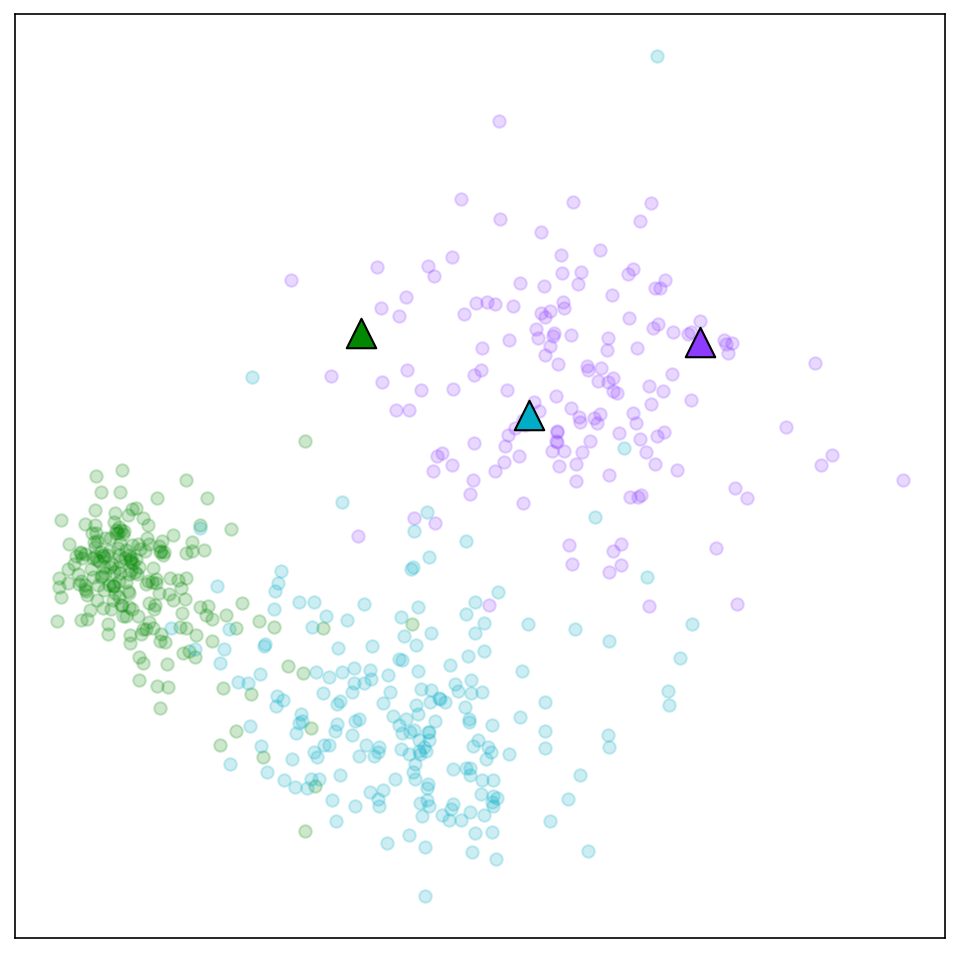
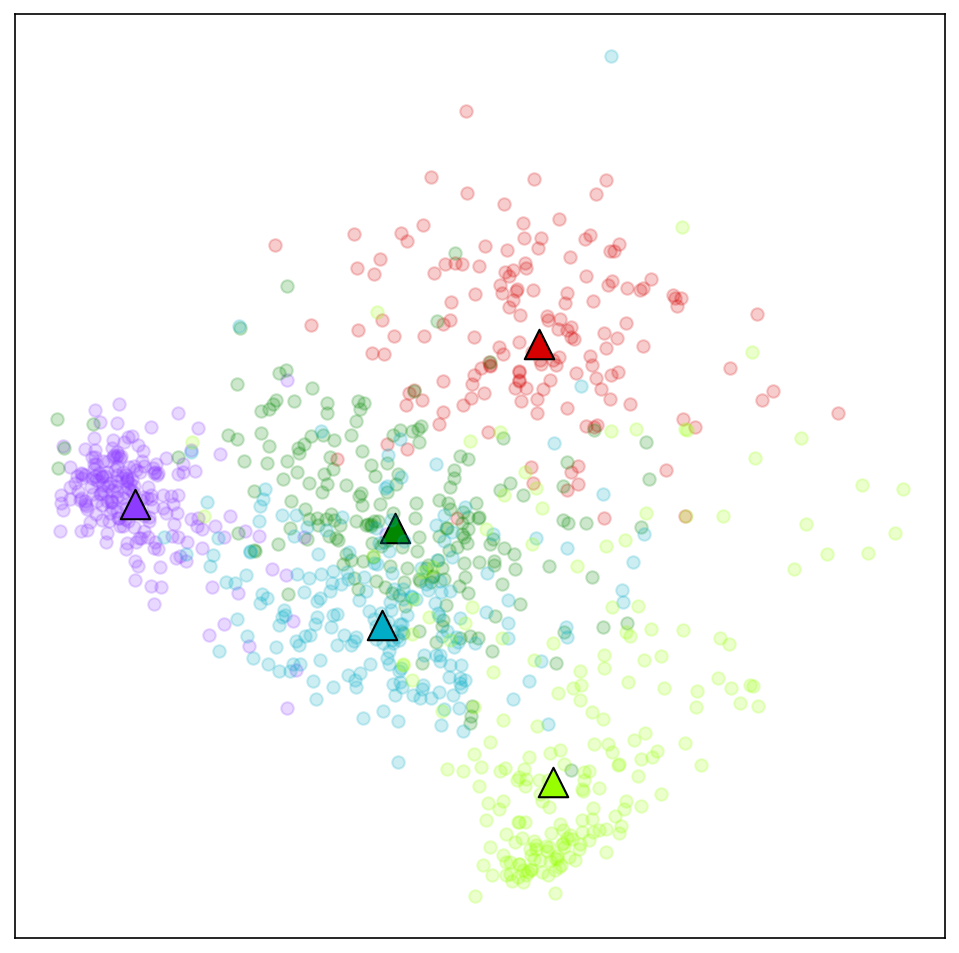
figures working

diff --git a/notebooks/infer.py b/notebooks/infer.py
@@ -37,10 +37,10 @@ from mpl_toolkits.mplot3d import Axes3D
 celltype_test_data = '/mnt/d/Szabolcs/test/CEED/checkpoint/CEED/CEED/example_datasets/IBL_400neuron_200spike_dataset'
 
 
-spikes_test_full = np.load(celltype_test_data + '/spikes_test.npy')
-print(f"Original spikes_test shape: {spikes_test_full.shape}")
-spikes_test = spikes_test_full[:,0]  # Single channel for backwards compatibility
+spikes_test = np.load(celltype_test_data + '/spikes_test.npy')[:,0]
 labels_test = np.load(celltype_test_data + '/labels_test.npy')
+print(f"Loaded single-channel spikes_test shape: {spikes_test.shape}")
+
 
 # %% [markdown]
 # ### Load a checkpoint into a CEED model
@@ -120,191 +120,214 @@ print(f"\nAvailable unit IDs ({len(unique_labels)} total): {unique_labels[:20]}.
 embeddings = fc_pca_ceed_emb
 
 fig, axes = plt.subplots(1,1, figsize=(8,8))
-unit_ids = [1,2,11,45]
+#unit_ids = [1,2,11,45]
+unit_ids = [2,11,12,45,50]
 colors = cc.glasbey[:len(unit_ids)]
 vertical_offset = 0
 for i, unit_id in enumerate(unit_ids):
     unit_ceed_emb = embeddings[labels_nonzero==unit_id]
     unit_spikes = spikes_nonzero[labels_nonzero==unit_id]
-    #unit_spikes_full = spikes_nonzero_full[labels_nonzero==unit_id]
     
-    # Skip if no data for this unit
     if len(unit_ceed_emb) == 0:
         print(f"Warning: No data found for unit {unit_id}, skipping")
         continue
     
-    # Use full multi-channel data for template to match load_and_transform processing
-    #template_full = np.median(unit_spikes_full,0)
-    #print(f"Unit {unit_id}: template_full shape: {template_full.shape}")
+    # Use single-channel template (shape: (121,))
+    template = np.median(unit_spikes, 0)
+    print(f"Unit {unit_id}: template shape: {template.shape}")
     
-    # Transform expects (N, C, L) format: N samples, C channels, L length
-    #template_tensor = torch.from_numpy(template_full).float().unsqueeze(0)
-    #print(f"Unit {unit_id}: template_tensor shape: {template_tensor.shape}")
+    # Transform expects (N, 1, L) for single-channel: (batch, channel, length)
+    template_tensor = torch.from_numpy(template).float().unsqueeze(0).unsqueeze(0)
+    print(f"Unit {unit_id}: template_tensor shape: {template_tensor.shape}")
     
-    #template_emb = fc_celltype_ceed_5d.transform(template_tensor)
+    template_emb = fc_celltype_ceed_5d.transform(template_tensor)
     
-    # Convert to numpy if it's a torch tensor
     if isinstance(template_emb, torch.Tensor):
         template_emb = template_emb.cpu().numpy()
     
     print(f"Unit {unit_id}: template_emb shape: {template_emb.shape}, has NaN: {np.isnan(template_emb).any()}")
-    if np.isnan(template_emb).any():
-        print(f"  NaN locations: {np.where(np.isnan(template_emb))}")
-        print(f"  template_full stats: min={template_full.min():.3f}, max={template_full.max():.3f}, mean={template_full.mean():.3f}")
     
-    # Reshape template_emb to match PCA input dimensions (flatten to 2D)
+    # The transform may output (T, D) or (1, T, D) or (D,). We need (1, T*D) for PCA.
+    # Match what was done for fc_pca_ceed_emb_nonzero (which was reshaped to (N, 105))
+    original_shape = template_emb.shape
     if len(template_emb.shape) == 3:
-        # Flatten from (1, 21, 5) to (1, 105)
-        template_emb = template_emb.reshape(template_emb.shape[0], -1)
-        print(f"Unit {unit_id}: reshaped 3D -> {template_emb.shape}")
+        # (1, T, D) -> flatten to (1, T*D)
+        template_emb = template_emb.reshape(1, -1)
     elif len(template_emb.shape) == 2:
-        # If it's 2D (e.g., (21, 5)), add batch dimension then flatten
+        # (T, D) -> flatten to (1, T*D)
         template_emb = template_emb.reshape(1, -1)
-        print(f"Unit {unit_id}: reshaped 2D -> {template_emb.shape}")
     elif len(template_emb.shape) == 1:
+        # (D,) -> (1, D) - but this may still be wrong if it should be (1, T*D)
+        # Check if this matches PCA input dim
         template_emb = template_emb.reshape(1, -1)
-        print(f"Unit {unit_id}: reshaped 1D -> {template_emb.shape}")
     
-    # Check for NaN - use median of unit's original embeddings and project through PCA
+    print(f"Unit {unit_id}: after reshape {original_shape} -> {template_emb.shape}")
+    
+    # Verify dimensions match PCA expectations
+    expected_features = fc_pca_ceed.n_features_in_
+    if template_emb.shape[1] != expected_features:
+        print(f"Warning: template_emb has {template_emb.shape[1]} features but PCA expects {expected_features}")
+        print(f"This suggests the single-template transform output differs from batch transform.")
+        print(f"Falling back to median of unit embeddings.")
+        # Fallback: use median of unit's high-dim embeddings
+        unit_emb_highdim = fc_pca_ceed_emb_nonzero[labels_nonzero==unit_id]
+        template_emb = np.median(unit_emb_highdim, axis=0).reshape(1, -1)
+
     if np.isnan(template_emb).any():
         print(f"Warning: NaN in template_emb for unit {unit_id}, using median of unit's embeddings")
-        # Get the median of this unit's embeddings in the original high-dim space
         unit_emb_highdim = fc_pca_ceed_emb_nonzero[labels_nonzero==unit_id]
         median_emb_highdim = np.median(unit_emb_highdim, axis=0).reshape(1, -1)
         pc_template_emb = fc_pca_ceed.transform(median_emb_highdim)[0]
-        print(f"  Using median of {len(unit_emb_highdim)} embeddings")
     else:
         pc_template_emb = fc_pca_ceed.transform(template_emb)[0]
         
-    print(f"Unit {unit_id}: Marker at ({pc_template_emb[0]:.3f}, {pc_template_emb[1]:.3f}), cloud center: ({np.mean(unit_ceed_emb[:,0]):.3f}, {np.mean(unit_ceed_emb[:,1]):.3f})")
+    print(f"Unit {unit_id}: Marker at ({pc_template_emb[0]:.3f}, {pc_template_emb[1]:.3f})")
     
-    # axes[0].plot(unit_spikes.T + vertical_offset, color=colors[i], alpha=.01);
-    # axes[0].plot(template.T + vertical_offset, color=colors[i], alpha=1);
-    # axes[0].annotate(str(unit_id), xy=(0,vertical_offset+.3))
-    vertical_offset += 1.5
     axes.scatter(unit_ceed_emb[:,0], unit_ceed_emb[:,1], color=colors[i], alpha=.2)
-    axes.scatter(pc_template_emb[0], pc_template_emb[1], color=colors[i], alpha=1,marker="^", s=200, label=str(unit_id), edgecolors='black', linewidths=1)
-# axes[0].vlines([42], ymax=vertical_offset, ymin= -1.5, ls='--', color='black')
+    axes.scatter(pc_template_emb[0], pc_template_emb[1], color=colors[i], alpha=1,
+                marker="^", s=200, label=str(unit_id), edgecolors='black', linewidths=1)
+
+
+
 axes.set_xticks([])
 axes.set_yticks([])
-# plt.legend();
 plt.savefig('pca_embeddings_simple.png', dpi=150, bbox_inches='tight')
 print('Saved: pca_embeddings_simple.png')
+
+
+
+# ...existing code...
 
 # %%
 embeddings = fc_pca_ceed_emb
 
 fig, axes = plt.subplots(1,2, figsize=(12,4))
-unit_ids = [8,5,12,17,68]
+unit_ids = [2,11,12,45,50]
 colors = cc.glasbey[:len(unit_ids)]
 vertical_offset = 0
 for i, unit_id in enumerate(unit_ids):
     unit_ceed_emb = embeddings[labels_nonzero==unit_id]
     unit_spikes = spikes_nonzero[labels_nonzero==unit_id]
-    #unit_spikes_full = spikes_nonzero_full[labels_nonzero==unit_id]
     
-    # Use full multi-channel data for template to match load_and_transform processing
-    #template_full = np.median(unit_spikes_full,0)
-    template = np.median(unit_spikes,0)  # Keep single-channel for plotting
+    if len(unit_ceed_emb) == 0:
+        print(f"Warning: No data found for unit {unit_id}, skipping")
+        continue
     
-    # Transform expects (N, C, L) format: N samples, C channels, L length
-    #template_tensor = torch.from_numpy(template_full).float().unsqueeze(0)
+    # Use single-channel template
+    template = np.median(unit_spikes, 0)
+    
+    # Transform expects (N, 1, L) for single-channel
+    template_tensor = torch.from_numpy(template).float().unsqueeze(0).unsqueeze(0)
     template_emb = fc_celltype_ceed_5d.transform(template_tensor)
     
-    # Convert to numpy if it's a torch tensor
     if isinstance(template_emb, torch.Tensor):
         template_emb = template_emb.cpu().numpy()
     
-    # Reshape template_emb to match PCA input dimensions (flatten to 2D)
+    # Reshape to 2D
+    original_shape = template_emb.shape
     if len(template_emb.shape) == 3:
-        # Flatten from (1, 21, 5) to (1, 105)
-        template_emb = template_emb.reshape(template_emb.shape[0], -1)
+        template_emb = template_emb.reshape(1, -1)
     elif len(template_emb.shape) == 2:
-        # If it's 2D (e.g., (21, 5) or (1, 5)), flatten to (1, N*D)
         template_emb = template_emb.reshape(1, -1)
     elif len(template_emb.shape) == 1:
         template_emb = template_emb.reshape(1, -1)
     
-    # Convert to numpy if it's a torch tensor
-    if isinstance(template_emb, torch.Tensor):
-        template_emb = template_emb.cpu().numpy()
+    print(f"Unit {unit_id}: after reshape {original_shape} -> {template_emb.shape}")
     
-    # Reshape to 2D if needed
-    if len(template_emb.shape) == 3:
-        template_emb = template_emb.reshape(template_emb.shape[0], -1)
-    elif len(template_emb.shape) == 2 and template_emb.shape[0] != 1:
-        template_emb = template_emb.reshape(1, -1)
+    # ADD THIS DIMENSION CHECK (same as first cell):
+    expected_features = fc_pca_ceed.n_features_in_
+    if template_emb.shape[1] != expected_features:
+        print(f"Warning: template_emb has {template_emb.shape[1]} features but PCA expects {expected_features}")
+        print(f"Falling back to median of unit embeddings.")
+        unit_emb_highdim = fc_pca_ceed_emb_nonzero[labels_nonzero==unit_id]
+        template_emb = np.median(unit_emb_highdim, axis=0).reshape(1, -1)
     
-    # Check for NaN - use median of unit's original embeddings and project through PCA
+    # Handle NaN
     if np.isnan(template_emb).any():
-        print(f"Warning: NaN in template_emb for unit {unit_id}, using median of unit's embeddings")
+        print(f"Warning: NaN in template_emb for unit {unit_id}, using median")
         unit_emb_highdim = fc_pca_ceed_emb_nonzero[labels_nonzero==unit_id]
         median_emb_highdim = np.median(unit_emb_highdim, axis=0).reshape(1, -1)
         pc_template_emb = fc_pca_ceed.transform(median_emb_highdim)[0]
     else:
         pc_template_emb = fc_pca_ceed.transform(template_emb)[0]
         
-    axes[0].plot(unit_spikes.T + vertical_offset, color=colors[i], alpha=.01);
-    axes[0].plot(template.T + vertical_offset, color=colors[i], alpha=1);
+    axes[0].plot(unit_spikes.T + vertical_offset, color=colors[i], alpha=.01)
+    axes[0].plot(template.T + vertical_offset, color=colors[i], alpha=1)
     axes[0].annotate(str(unit_id), xy=(0,vertical_offset+.3))
     vertical_offset += 1.5
     axes[1].scatter(unit_ceed_emb[:,0], unit_ceed_emb[:,1], color=colors[i], alpha=.1)
-    axes[1].scatter(pc_template_emb[0], pc_template_emb[1], color=colors[i], alpha=1,marker="^", s=200, label=str(unit_id), edgecolors='black', linewidths=1)
-axes[0].vlines([42], ymax=vertical_offset, ymin= -1.5, ls='--', color='black')
-plt.legend();
+    axes[1].scatter(pc_template_emb[0], pc_template_emb[1], color=colors[i], alpha=1,
+                   marker="^", s=200, label=str(unit_id), edgecolors='black', linewidths=1)
+
+axes[0].vlines([42], ymax=vertical_offset, ymin=-1.5, ls='--', color='black', alpha=0.5, linewidth=1)
+axes[0].set_xlabel('Sample (timepoint)', fontsize=11)
+axes[0].set_ylabel('Amplitude (offset per unit)', fontsize=11)
+axes[0].set_title('Spike Waveforms', fontsize=12)
+axes[0].set_ylim(-1.5, vertical_offset)  # Set y limits for better view
+axes[0].grid(alpha=0.3, axis='x')
+
+# Adjust right panel (embeddings)
+axes[1].set_xlabel('PC1', fontsize=11)
+axes[1].set_ylabel('PC2', fontsize=11)
+axes[1].set_title('PCA Embeddings', fontsize=12)
+axes[1].grid(alpha=0.3)
+
+plt.legend(loc='best', fontsize=10)
+plt.tight_layout()
 plt.savefig('pca_embeddings_with_waveforms.png', dpi=150, bbox_inches='tight')
 print('Saved: pca_embeddings_with_waveforms.png')
 
-# %%
+
 embeddings = fc_umap_ceed_emb
 
 fig, axes = plt.subplots(1,2, figsize=(12,4))
-unit_ids = [8,5,12,17,68]
+unit_ids = [2,11,12,45,50]
 colors = cc.glasbey[:len(unit_ids)]
 vertical_offset = 0
 for i, unit_id in enumerate(unit_ids):
     unit_ceed_emb = embeddings[labels_nonzero==unit_id]
     unit_spikes = spikes_nonzero[labels_nonzero==unit_id]
-    #unit_spikes_full = spikes_nonzero_full[labels_nonzero==unit_id]
     
     # Skip if no data for this unit
     if len(unit_ceed_emb) == 0:
         print(f"Warning: No data found for unit {unit_id}, skipping")
         continue
     
-    # Use full multi-channel data for template to match load_and_transform processing
-    #template_full = np.median(unit_spikes_full,0)
-    template = np.median(unit_spikes,0)  # Keep single-channel for plotting
+    # Use single-channel template (shape: (121,))
+    template = np.median(unit_spikes, 0)
     
-    # Transform expects (N, C, L) format: N samples, C channels, L length
-    template_tensor = torch.from_numpy(template_full).float().unsqueeze(0)
-    template_emb = fc_celltype_ceed_5d.transform(template_tensor)
-    
-    # Convert to numpy if it's a torch tensor
-    if isinstance(template_emb, torch.Tensor):
-        template_emb = template_emb.cpu().numpy()
-    
-    # Reshape template_emb to match PCA input dimensions (flatten to 2D)
-    if len(template_emb.shape) == 3:
-        # Flatten from (1, 21, 5) to (1, 105)
-        template_emb = template_emb.reshape(template_emb.shape[0], -1)
-    elif len(template_emb.shape) == 2:
-        # If it's 2D (e.g., (21, 5) or (1, 5)), flatten to (1, N*D)
-        template_emb = template_emb.reshape(1, -1)
-    elif len(template_emb.shape) == 1:
-        template_emb = template_emb.reshape(1, -1)
-    
-    # For UMAP, just use median of the embeddings (can't project template through UMAP after fitting)
-    axes[0].plot(unit_spikes.T + vertical_offset, color=colors[i], alpha=.01);
-    axes[0].plot(template.T + vertical_offset, color=colors[i], alpha=1);
+    # Plot waveforms
+    axes[0].plot(unit_spikes.T + vertical_offset, color=colors[i], alpha=.01)
+    axes[0].plot(template.T + vertical_offset, color=colors[i], alpha=1)
     axes[0].annotate(str(unit_id), xy=(0,vertical_offset+.3))
     vertical_offset += 1.5
+    
+    # For UMAP, use median of embeddings (can't project new samples through fitted UMAP)
     axes[1].scatter(unit_ceed_emb[:,0], unit_ceed_emb[:,1], color=colors[i], alpha=.1)
-    #plot median of umap here because didn't do projection of template
-    axes[1].scatter(np.median(unit_ceed_emb,0)[0], np.median(unit_ceed_emb,0)[1], color=colors[i], alpha=1,marker='*', s=200, label=str(unit_id), edgecolors='black', linewidths=1)
-plt.legend();
+    median_emb = np.median(unit_ceed_emb, 0)
+    axes[1].scatter(median_emb[0], median_emb[1], color=colors[i], alpha=1,
+                   marker='*', s=200, label=str(unit_id), 
+                   edgecolors='black', linewidths=1)
+
+axes[0].vlines([42], ymax=vertical_offset, ymin=-1.5, ls='--', color='black', alpha=0.5, linewidth=1)
+axes[0].set_xlabel('Sample (timepoint)', fontsize=11)
+axes[0].set_ylabel('Amplitude (offset per unit)', fontsize=11)
+axes[0].set_title('Spike Waveforms', fontsize=12)
+axes[0].set_ylim(-1.5, vertical_offset)
+axes[0].grid(alpha=0.3, axis='x')
+
+# Adjust right panel
+axes[1].set_xlabel('UMAP1', fontsize=11)
+axes[1].set_ylabel('UMAP2', fontsize=11)
+axes[1].set_title('UMAP Embeddings', fontsize=12)
+axes[1].grid(alpha=0.3)
+
+plt.legend(loc='best', fontsize=10)
+plt.tight_layout()
 plt.savefig('umap_embeddings_with_waveforms.png', dpi=150, bbox_inches='tight')
 print('Saved: umap_embeddings_with_waveforms.png')
+
+
 
 # %% [markdown]
 # ### Transform without a data folder
@@ -315,5 +338,4 @@ cell_type_inference_data = np.load(os.path.join(celltype_test_data, 'spikes_test
 print("cell type data:", cell_type_inference_data.shape)
 transformed_inference_data = fc_celltype_ceed_5d.transform(cell_type_inference_data)
 print(transformed_inference_data.shape)
-
 
